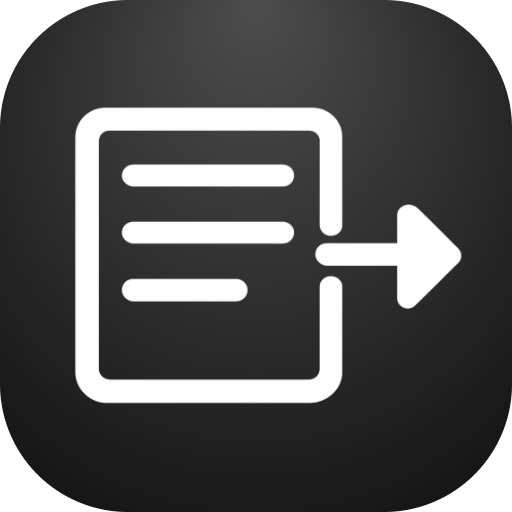
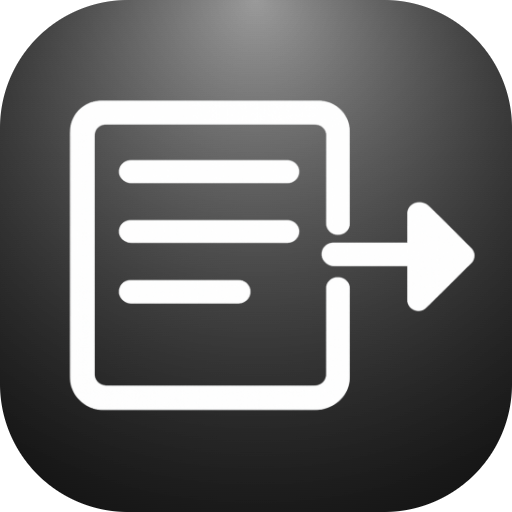
Prepare extension for store submission
- Add categories field to package.json
- Update command title to follow '<verb> <noun>' structure
- Fix changelog date format
- Update screenshots to required 2000x1250px dimensions
- Update extension icon

diff --git a/CHANGELOG.md b/CHANGELOG.md
@@ -1,3 +1,3 @@
 # Text Edit & Paste Changelog
 
-## [Initial Version] - {PR_MERGE_DATE}
+## [Initial Version] - 2025-11-30
